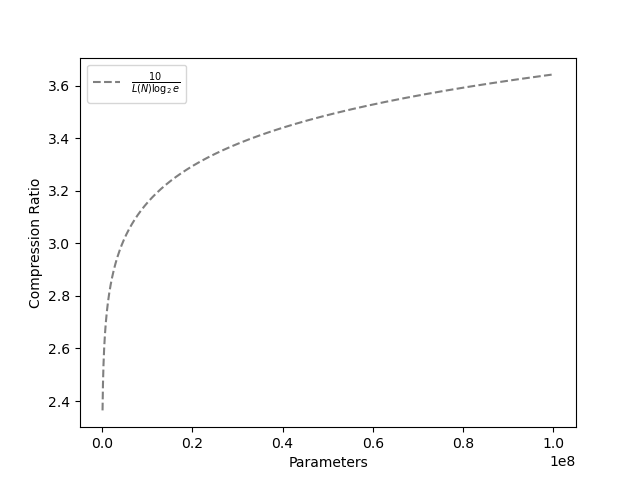
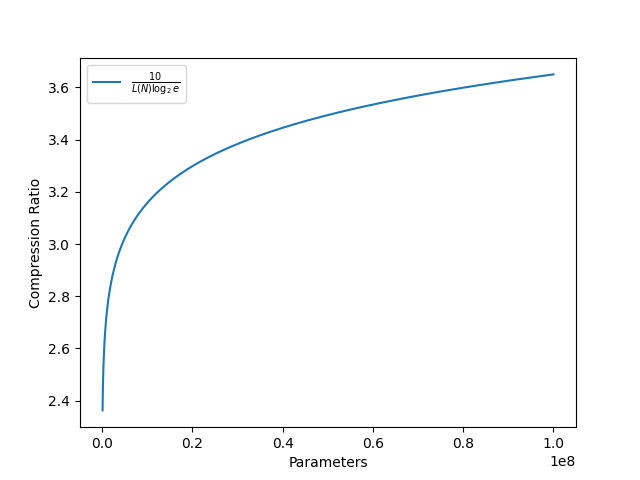
updated some graphs and added final remarks

diff --git a/comma/index.html b/comma/index.html
@@ -393,8 +393,8 @@
     ratio and model size.
   </p>
   <p>
-    So we have a model that is pretty close to the optimal model size but its
-    actually pretty slow. It is only able to get around 20,000 tokens per second
+    So we have a model that is close to the optimal model size but its
+    slow. It is only able to get around 20,000 tokens per second
     which means it would take about 10 hours to decompress.
   </p>
 
@@ -402,10 +402,12 @@
   <p>
     One very common and easy performance gain is kv caching. Currently when doing a
     forward pass the model is computing the key and values for every single token
-    in the context. This is actually pretty wasteful because the key and values do
-    not change for already seen tokens. So the idea of the optimization is just to
-    cache the key and value matrices and only compute them for the new token. This
-    reduces the computation at each step from n^2 to just n.
+    in the context. This is pretty wasteful because the key and values do
+    not change for already seen tokens so most of the computation in a single pass is wasted recomputing already seen tokens. 
+    The idea of kv caching is just to compute the key and value pairs for each token once and then store them to be reused.
+  </p>
+  <p>
+    Suprisingly the performance gain from this isn't actually that great.
   </p>
   <p>
     

diff --git a/comma/plots.py b/comma/plots.py
@@ -43,24 +43,60 @@ model_names = ["196608", "393216", "3145728", "6291456", "9437184"]
 # fig.savefig("test_loss_vs_compute.png")
 
 # plot #2
+# import matplotlib.ticker as mticker
+# fig = plt.figure()
+# ax = fig.add_subplot(111)
+
+# ax.set_ylabel("Test Loss")
+# ax.set_xlabel("Parameters")
+# # plt.grid()
+# ax.set_xscale('log', base=10) 
+# ax.set_yscale('log', base=10) 
+
+# x = np.arange(10**5, 2*10**7, 100)
+# y = (x/(2.65293642*10**12))**(-0.0629678928294751)
+# ax.plot(x, y, linestyle="--", color="gray", label=r'$L=\left(N/2.653\cdot10^{12}\right)^{-0.0630}$')
+
+# for i in model_names:
+#     df = pl.read_csv(f"comma/runs/{i}.csv")
+#     ax.scatter(int(i), df.select(f"{i} - loss")[-100:].to_numpy().mean())
+#     print(i, df.select(f"{i} - loss")[-100:].to_numpy().mean())
+# ax.legend()
+
+# # Remove 10^0 label
+# ax.yaxis.set_major_formatter(mticker.ScalarFormatter())
+# ax.yaxis.set_minor_formatter(mticker.ScalarFormatter())
+# ax.tick_params(axis='y', which='both', labelsize=10)  # Adjust label size if needed
+
+# fig.savefig("Figure_1.png")
+
+# plot 3
 import matplotlib.ticker as mticker
 fig = plt.figure()
 ax = fig.add_subplot(111)
 
-ax.set_ylabel("Test Loss")
+ax.set_ylabel("Compression Ratio")
 ax.set_xlabel("Parameters")
 # plt.grid()
-ax.set_xscale('log', base=10) 
-ax.set_yscale('log', base=10) 
+# ax.set_xscale('log', base=10) 
+# ax.set_yscale('log', base=10) 
 
-x = np.arange(10**5, 2*10**7, 100)
+x = np.arange(10**5, 10**8, 100, dtype=np.int64)
 y = (x/(2.65293642*10**12))**(-0.0629678928294751)
-ax.plot(x, y, linestyle="--", color="gray", label=r'$L=\left(N/2.653\cdot10^{12}\right)^{-0.0630}$')
+y1 = 10 / (y * np.log2(np.e))
+ax.plot(x, y1, linestyle="-", label="no model size")
+y2 = (915/(((y * np.log2(np.e))/10) * 915 + ((x * 4)/(8*1024*1024))))
+ax.plot(x, y2, linestyle="-", label="4 bit")
+y2 = (915/(((y * np.log2(np.e))/10) * 915 + ((x * 8)/(8*1024*1024))))
+ax.plot(x, y2, linestyle="-", label="8 bit")
+y2 = (915/(((y * np.log2(np.e))/10) * 915 + ((x * 16)/(8*1024*1024))))
+ax.plot(x, y2, linestyle="-", label="16 bit")
+y2 = (915/(((y * np.log2(np.e))/10) * 915 + ((x * 32)/(8*1024*1024))))
+ax.plot(x, y2, linestyle="-", label="32 bit")
 
-for i in model_names:
-    df = pl.read_csv(f"runs/{i}.csv")
-    ax.scatter(int(i), df.select(f"{i} - loss")[-100:].to_numpy().mean())
-    print(i, df.select(f"{i} - loss")[-100:].to_numpy().mean())
+# for i in model_names:
+    # df = pl.read_csv(f"{i}.csv")
+    # ax.scatter(int(i), df.select(f"{i} - loss")[-100:].to_numpy().mean())
 ax.legend()
 
 # Remove 10^0 label
@@ -69,33 +105,3 @@ ax.yaxis.set_minor_formatter(mticker.ScalarFormatter())
 ax.tick_params(axis='y', which='both', labelsize=10)  # Adjust label size if needed
 
 fig.savefig("Figure_1.png")
-
-# plot 3
-# import matplotlib.ticker as mticker
-# fig = plt.figure()
-# ax = fig.add_subplot(111)
-
-# ax.set_ylabel("Compression Ratio")
-# ax.set_xlabel("Parameters")
-# # plt.grid()
-# # ax.set_xscale('log', base=10) 
-# # ax.set_yscale('log', base=10) 
-
-# x = np.arange(10**5, 10**8, 100)
-# y = (x/(2.9415246413*10**12))**(-0.0625374205751)
-# y1 = 10 / (y * np.log2(np.e))
-# ax.plot(x, y1, linestyle="--", label=r'$\frac{10}{L\left(N\right)\log_{2}e}$')
-# y2 = (915/(((y * np.log2(np.e))/10) * 915 + ((x * 16)/(8*1024*1024))))
-# ax.plot(x, y2, linestyle="--")
-
-# # for i in model_names:
-#     # df = pl.read_csv(f"{i}.csv")
-#     # ax.scatter(int(i), df.select(f"{i} - loss")[-100:].to_numpy().mean())
-# # ax.legend()
-
-# # Remove 10^0 label
-# ax.yaxis.set_major_formatter(mticker.ScalarFormatter())
-# ax.yaxis.set_minor_formatter(mticker.ScalarFormatter())
-# ax.tick_params(axis='y', which='both', labelsize=10)  # Adjust label size if needed
-
-# fig.savefig("Figure_1.png")
